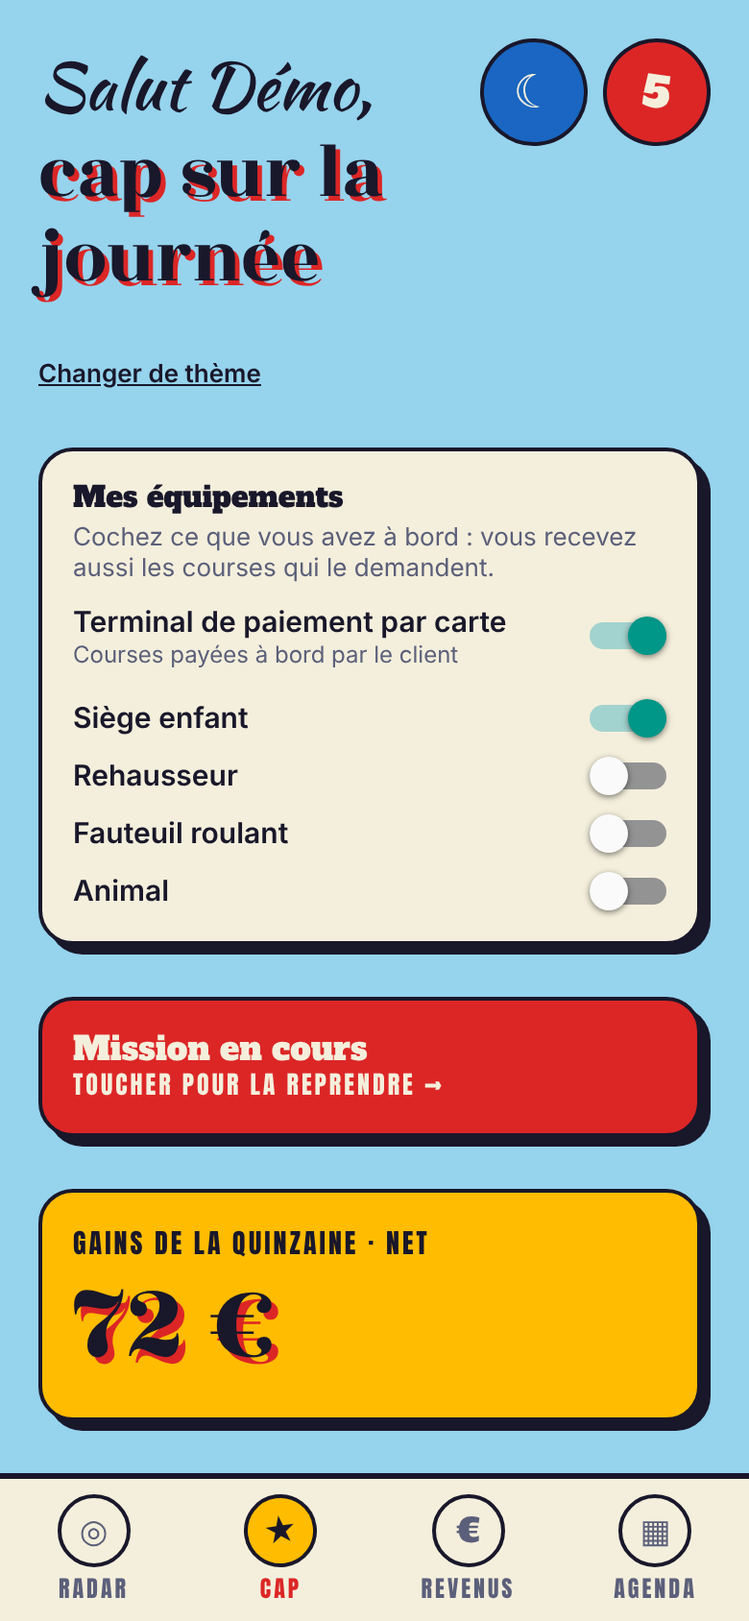
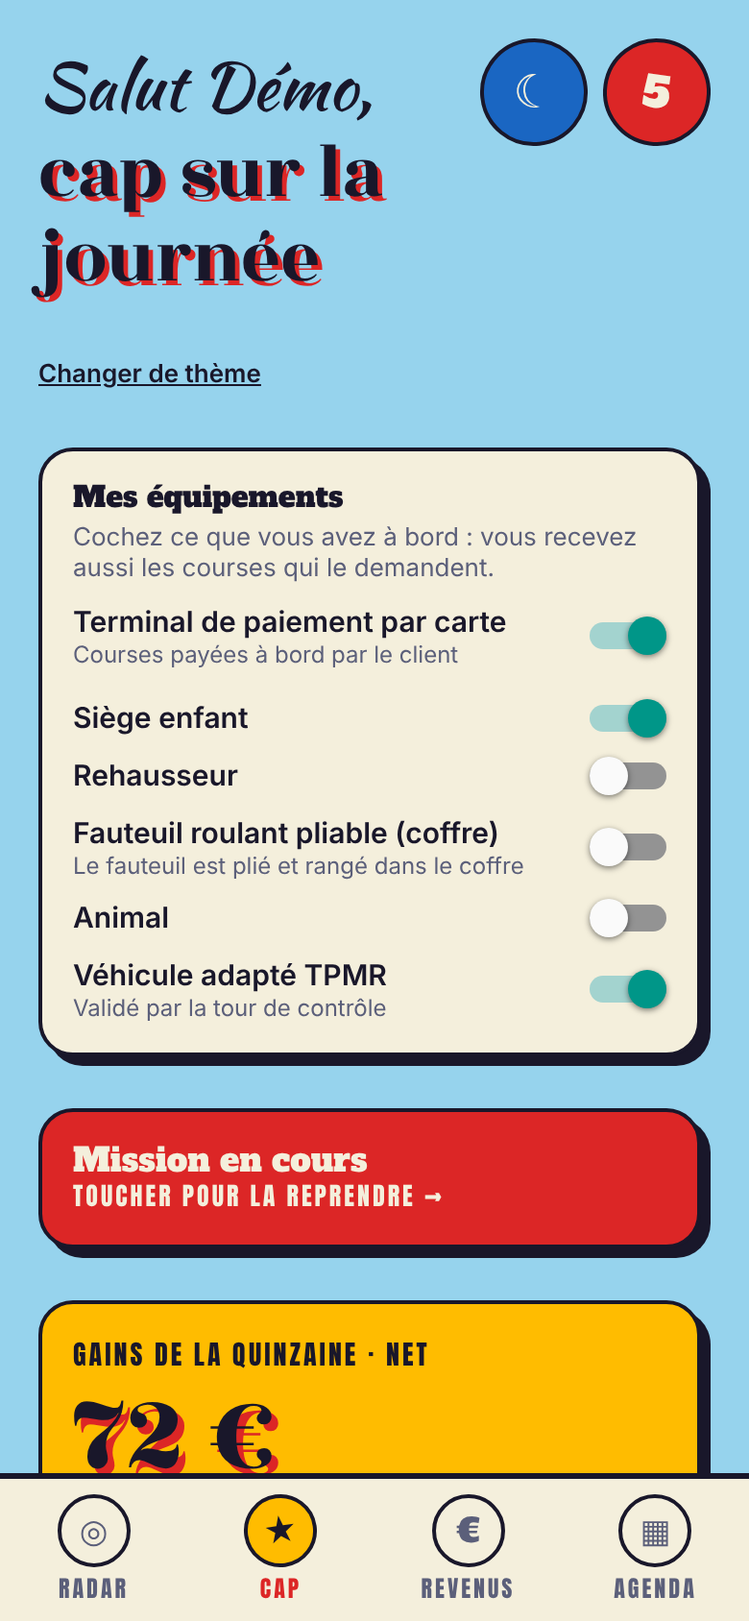
Équipements : véhicule adapté TPMR validé par la tour, distinct du fauteuil pliable
Nouveau besoin TPMR (rampe ou élévateur, le passager reste dans son fauteuil), à côté de
« fauteuil roulant pliable (coffre) ». Le chauffeur le déclare dans « Mes équipements » ;
les courses TPMR ne lui sont proposées qu'après validation par la tour (onglet Chauffeurs,
« Véhicule TPMR vérifié », journal d'audit). S'il retire TPMR, la validation est à refaire.
Libellés mis à jour sur la page de réservation, l'espace hôtel, la tour et l'application.

Claude-Session: https://claude.ai/code/session_01Kibw4NxoHggexyoNZitFjH

Changed region(s): [[0.0308, 0.4929, 0.9538, 0.9242]]

diff --git a/apps/backoffice/app/page.tsx b/apps/backoffice/app/page.tsx
@@ -345,7 +345,7 @@ function Board() {
                       <span className={`chip ${chipTone(r.status)}`}>{STATUS_LABEL[r.status] ?? r.status}</span>
                       <span className="chip">{r.category}</span>
                       {r.payOnBoard && <span className={`chip ${r.onBoardPayment === "PAID" ? "ok" : r.onBoardPayment === "ISSUE" ? "bad" : "yel"}`}>{r.onBoardPayment === "PAID" ? "Payé à bord ✓" : r.onBoardPayment === "ISSUE" ? (r.onBoardPaymentResolvedAt ? "Impayé à bord (traité)" : "Impayé à bord") : "Paiement à bord (carte)"}</span>}
-                      {(r.needs ?? []).map((n: string) => <span className="chip bad" key={n}>{({ CHILD_SEAT: "Siège enfant", BOOSTER: "Rehausseur", WHEELCHAIR: "Fauteuil roulant", PET: "Animal" } as Record<string, string>)[n] ?? n}</span>)}
+                      {(r.needs ?? []).map((n: string) => <span className="chip bad" key={n}>{({ CHILD_SEAT: "Siège enfant", BOOSTER: "Rehausseur", WHEELCHAIR: "Fauteuil pliable (coffre)", PET: "Animal", TPMR: "Véhicule TPMR (passager en fauteuil)" } as Record<string, string>)[n] ?? n}</span>)}
                       <span className="chip">{r.booking.partner?.name ?? "—"}</span>
                       <span className="chip">Client {eur(r.priceCents).replace(",00", "")}</span>
                     </div>
@@ -408,6 +408,19 @@ function AirportBadge({ driver, act }: { driver: any; act: (path: string, body?:
   );
 }
 
+/** Véhicule adapté TPMR (le passager reste dans son fauteuil) : déclaré par le chauffeur, validé ici après contrôle. */
+function TpmrCheck({ vehicle: v, act }: { vehicle: any; act: (path: string, body?: unknown) => Promise<void> }) {
+  return (
+    <div className="row" style={{ gap: 8, flexWrap: "wrap", alignItems: "center", margin: "8px 0" }}>
+      <span className="cond">TPMR · {v.plate}</span>
+      {v.tpmrVerifiedAt ? <span className="chip ok">validé le {new Date(v.tpmrVerifiedAt).toLocaleDateString("fr-FR")}</span> : <span className="chip yel">déclaré par le chauffeur : à vérifier</span>}
+      {v.tpmrVerifiedAt
+        ? <button className="btn" onClick={() => { if (confirm("Retirer la validation TPMR ? Ce véhicule ne recevra plus les courses de passagers en fauteuil.")) act(`/admin/vehicles/${v.id}/tpmr`, { verified: false }); }}>Retirer</button>
+        : <button className="btn primary" onClick={() => { if (confirm("Avez-vous vérifié la carte grise (mention handicap / TPMR) et la rampe ou l'élévateur ?")) act(`/admin/vehicles/${v.id}/tpmr`, { verified: true }); }}>Véhicule TPMR vérifié</button>}
+    </div>
+  );
+}
+
 function Drivers({isAdmin}:{isAdmin:boolean}) {
   const drivers = useLoad<any[]>("/admin/drivers", 8000);
   const [msg, setMsg] = useState("");
@@ -437,6 +450,7 @@ function Drivers({isAdmin}:{isAdmin:boolean}) {
             <div className="chips">{d.vehicles.map((v: any) => <span className={`chip ${v.compliance?.ok === false ? "bad" : "blue"}`} key={v.id} title={v.compliance?.problems?.join(" · ")}>{v.make} {v.model} · {v.plate}{v.compliance?.ok === false ? " · non conforme" : ""}</span>)}</div>
             {d.vehicles.filter((v: any) => v.compliance?.ok === false).map((v: any) => <div className="muted" key={v.id} style={{ fontSize: 13 }}>{v.plate} : {v.compliance.problems.join(" · ")}</div>)}
             {isAdmin && <AirportBadge driver={d} act={act} />}
+            {isAdmin && d.vehicles.filter((v: any) => (v.features ?? []).includes("TPMR") || v.tpmrVerifiedAt).map((v: any) => <TpmrCheck key={v.id} vehicle={v} act={act} />)}
             <div style={{ margin: "12px 0" }}>
               {d.documents.map((x: any) => (
                 <div className="doc" key={x.id}>

diff --git a/apps/api/src/needs.test.ts b/apps/api/src/needs.test.ts
@@ -58,6 +58,13 @@ describe("équipements du véhicule", () => {
     expect(hasNeeds({ features: [] }, [])).toBe(true);
     expect(hasNeeds({}, ["WHEELCHAIR"])).toBe(false);
   });
+  it("TPMR : la déclaration ne suffit pas, il faut la validation de la tour", () => {
+    expect(hasNeeds({ features: ["TPMR"] }, ["TPMR"])).toBe(false);
+    expect(hasNeeds({ features: ["TPMR"], tpmrVerifiedAt: new Date() }, ["TPMR"])).toBe(true);
+    expect(hasNeeds({ features: [], tpmrVerifiedAt: new Date() }, ["TPMR"])).toBe(false);
+    // le fauteuil pliable (coffre) reste une simple déclaration
+    expect(hasNeeds({ features: ["WHEELCHAIR"] }, ["WHEELCHAIR"])).toBe(true);
+  });
 });
 
 describe("besoins particuliers", () => {
@@ -92,6 +99,31 @@ describe("besoins particuliers", () => {
     // un équipement inconnu sur un véhicule est refusé aussi
     const r = await call("/admin/drivers", { admin: true, body: { firstName: "X", lastName: "Y", phone: "+33600039999", email: "xy@test.fr", vehicle: { plate: "ZZ-999-ZZ", make: "A", model: "B", category: "BERLINE", features: ["JACUZZI"] } } });
     expect(r.status).toBe(422);
+  });
+});
+
+describe("véhicule adapté TPMR", () => {
+  it("déclaré par le chauffeur, validé par la tour ; course TPMR proposée seulement après validation", async () => {
+    const p = (await call("/admin/partners", { admin: true, body: { name: "P" } })).json;
+    const d = await mkDriver();
+    const v = (await call("/driver/me", { token: d.token })).json.vehicles[0];
+    // La tour ne peut pas valider un véhicule que le chauffeur n'a pas déclaré.
+    expect((await call(`/admin/vehicles/${v.id}/tpmr`, { admin: true, body: { verified: true } })).status).toBe(409);
+    const decl = await call(`/driver/vehicles/${v.id}/features`, { token: d.token, body: { features: ["TPMR"] } });
+    expect(decl.json).toEqual({ features: ["TPMR"], tpmrVerified: false });
+    const first = await book(p, ["TPMR"]);
+    expect(first.status).toBe(201);
+    expect((await call("/driver/offers", { token: d.token })).json).toHaveLength(0);
+    expect((await call(`/admin/vehicles/${v.id}/tpmr`, { admin: true, body: { verified: true } })).status).toBe(201);
+    expect((await call("/driver/me", { token: d.token })).json.vehicles[0].tpmrVerifiedAt).toBeTruthy();
+    await book(p, ["TPMR"]);
+    expect((await call("/driver/offers", { token: d.token })).json).toHaveLength(1);
+    // Le chauffeur retire TPMR : la validation tombe ; s'il le redéclare, il faut revalider.
+    await call(`/driver/vehicles/${v.id}/features`, { token: d.token, body: { features: [] } });
+    const again = await call(`/driver/vehicles/${v.id}/features`, { token: d.token, body: { features: ["TPMR"] } });
+    expect(again.json.tpmrVerified).toBe(false);
+    expect((await prisma.vehicle.findUniqueOrThrow({ where: { id: v.id } })).tpmrVerifiedAt).toBeNull();
+    expect(await prisma.auditLog.count({ where: { action: "vehicle.tpmr_verified", entityId: v.id } })).toBe(1);
   });
 });
 

diff --git a/apps/driver-app/src/screens.tsx b/apps/driver-app/src/screens.tsx
@@ -9,7 +9,7 @@ import { ReferralCard } from "./referral";
 import { useEffect, useRef, useState } from "react";
 import { ActivityIndicator, Linking, Pressable, RefreshControl, ScrollView, SectionList, Switch, Text, View } from "react-native";
 import { api, ApiError } from "./api";
-import { countdown, eurShort, NEED_LABEL, needLabels, flightLabel, fuseFraction, groupByDay, isCancelled, NEXT_ACTION, STATUS_LABEL, stepIndex, STEPS, timeOf } from "./format";
+import { countdown, equipHint, eurShort, NEED_LABEL, needLabels, flightLabel, fuseFraction, groupByDay, isCancelled, NEXT_ACTION, STATUS_LABEL, stepIndex, STEPS, timeOf } from "./format";
 import { c } from "./theme";
 import { Btn, Card, Chip, Cond, Display, Fuse, HoldButton, Script, Slab, Sticker, ThemePickerButton, ThemeToggle } from "./ui";
 import { useFetch } from "./useFetch";
@@ -95,10 +95,10 @@ export function Cap({ goRadar, onQuit, notify, openMission, openMessages, dark, 
             {(me.data?.vehicles ?? []).length > 1 && <Cond size={12} color={c.muted} style={{ marginTop: 8 }}>{`${v.make} ${v.model} · ${v.plate}`}</Cond>}
             {Object.entries(NEED_LABEL).map(([need, label]) => {
               const has = (v.features ?? []).includes(need);
-              return <EquipRow key={need} label={label} value={has} disabled={!me.data}
+              return <EquipRow key={need} label={label} hint={equipHint(need, v)} value={has} disabled={!me.data}
                 onChange={async (on) => {
                   const features = on ? [...(v.features ?? []), need] : (v.features ?? []).filter((x: string) => x !== need);
-                  try { await api(`/driver/vehicles/${v.id}/features`, { features }); await me.reload(); notify(on ? `${label} : déclaré` : `${label} : retiré`, "ok"); }
+                  try { await api(`/driver/vehicles/${v.id}/features`, { features }); await me.reload(); notify(on ? (need === "TPMR" ? "Véhicule TPMR déclaré : la tour de contrôle va le vérifier" : `${label} : déclaré`) : `${label} : retiré`, "ok"); }
                   catch (e: any) { notify(e.message, "bad"); }
                 }} />;
             })}

diff --git a/apps/driver-app/src/format.test.ts b/apps/driver-app/src/format.test.ts
@@ -1,5 +1,5 @@
 import { describe, expect, it } from "vitest";
-import { normalizeApiUrl, countdown, dayLabel, delayLabel, flightLabel, hoursLabel, isCancelled, STATUS_LABEL, eurShort, fuseFraction, groupByDay, NEXT_ACTION, secondsUntil, stepIndex, timeOf, waitedMin, whenLabel, swapState } from "./format";
+import { equipHint, NEED_LABEL, normalizeApiUrl, countdown, dayLabel, delayLabel, flightLabel, hoursLabel, isCancelled, STATUS_LABEL, eurShort, fuseFraction, groupByDay, NEXT_ACTION, secondsUntil, stepIndex, timeOf, waitedMin, whenLabel, swapState } from "./format";
 
 describe("format", () => {
   it("compte à rebours mm:ss", () => {
@@ -91,5 +91,16 @@ describe("bourse d'échange", () => {
     expect(swapState({ status: "ASSIGNED", swapDeadline: "2026-06-02T10:00:00Z", swapOfferedAt: "2026-06-01T09:00:00Z" }, now)).toBe("offered");
     expect(swapState({ status: "ASSIGNED", swapDeadline: "2026-06-01T09:00:00Z" }, now)).toBe("closed");
     expect(swapState({ status: "EN_ROUTE", swapDeadline: "2026-06-02T10:00:00Z" }, now)).toBe("closed");
+  });
+});
+
+describe("équipements : sous-titres", () => {
+  it("TPMR : à valider tant que la tour n'a pas vérifié", () => {
+    expect(NEED_LABEL.TPMR).toBe("Véhicule adapté TPMR");
+    expect(equipHint("TPMR", { features: [] })).toMatch(/Validation par la tour/);
+    expect(equipHint("TPMR", { features: ["TPMR"] })).toBe("En attente de validation par la tour de contrôle");
+    expect(equipHint("TPMR", { features: ["TPMR"], tpmrVerifiedAt: "2026-11-28T10:00:00Z" })).toBe("Validé par la tour de contrôle");
+    expect(equipHint("WHEELCHAIR", {})).toMatch(/coffre/);
+    expect(equipHint("PET", {})).toBeUndefined();
   });
 });

diff --git a/apps/api/src/admin.controller.ts b/apps/api/src/admin.controller.ts
@@ -155,6 +155,19 @@ export class AdminController {
    * Badge d'accès aéroport vérifié par l'équipe (facture de parking ADP vue par un humain) : le chauffeur ne peut pas encore
    * envoyer sa facture depuis l'application. Retirer le badge le refuse ; les départs d'aéroport se ferment aussitôt.
    */
+  /** Véhicule adapté TPMR : la tour valide après contrôle (carte grise, photos de la rampe ou de l'élévateur) ; ou retire la validation. */
+  @Post("vehicles/:id/tpmr")
+  @AdminOnly()
+  async tpmr(@Req() req: { admin: AdminIdentity }, @Param("id") id: string, @Body() body: unknown) {
+    const { verified } = parse(z.object({ verified: z.boolean() }).strict(), body);
+    const v = await this.prisma.vehicle.findUnique({ where: { id } });
+    if (!v) throw new HttpException("Véhicule introuvable", 404);
+    if (verified && !v.features.includes("TPMR")) throw new HttpException("Le chauffeur n'a pas déclaré ce véhicule comme adapté TPMR", 409);
+    await this.prisma.vehicle.update({ where: { id }, data: verified ? { tpmrVerifiedAt: new Date(), tpmrVerifiedBy: req.admin.actor } : { tpmrVerifiedAt: null, tpmrVerifiedBy: null } });
+    await this.prisma.auditLog.create({ data: { actor: req.admin.actor, action: verified ? "vehicle.tpmr_verified" : "vehicle.tpmr_revoked", entity: "Vehicle", entityId: id } });
+    return { tpmrVerified: verified };
+  }
+
   @Post("drivers/:id/airport-badge")
   @AdminOnly()
   async airportBadge(@Req() req: { admin: AdminIdentity }, @Param("id") id: string, @Body() body: unknown) {

diff --git a/apps/api/src/vehicle-rules.ts b/apps/api/src/vehicle-rules.ts
@@ -52,10 +52,14 @@ export function checkVehicle(v: VehicleFacts, now = new Date()): VehicleCheck {
   return { ok: p.length === 0, problems: p };
 }
 
-/** Le véhicule a-t-il tous les équipements demandés (siège enfant, fauteuil roulant…) ? */
-export const hasNeeds = (v: { features?: string[] | null }, needs: readonly string[] = []) => needs.every((n) => (v.features ?? []).includes(n));
+/**
+ * Le véhicule a-t-il tous les équipements demandés (siège enfant, fauteuil roulant…) ?
+ * TPMR (passager qui reste dans son fauteuil) : la déclaration du chauffeur ne suffit pas, il faut la validation de la tour.
+ */
+export const hasNeeds = (v: { features?: string[] | null; tpmrVerifiedAt?: Date | null }, needs: readonly string[] = []) =>
+  needs.every((n) => (v.features ?? []).includes(n) && (n !== "TPMR" || !!v.tpmrVerifiedAt));
 
 /** Premier véhicule actif de la catégorie qui respecte les critères et porte les équipements demandés. */
-export function firstCompliant<T extends VehicleFacts & { active: boolean; category: string; features?: string[] | null }>(vehicles: T[], category: string, needs: readonly string[] = []): T | undefined {
+export function firstCompliant<T extends VehicleFacts & { active: boolean; category: string; features?: string[] | null; tpmrVerifiedAt?: Date | null }>(vehicles: T[], category: string, needs: readonly string[] = []): T | undefined {
   return vehicles.find((v) => v.active && v.category === category && checkVehicle(v).ok && hasNeeds(v, needs));
 }

diff --git a/apps/driver-app/src/format.ts b/apps/driver-app/src/format.ts
@@ -104,7 +104,15 @@ export function normalizeApiUrl(raw: string): string | null {
 }
 
 /** Besoins particuliers du voyageur, tels qu'affichés au chauffeur. */
-export const NEED_LABEL: Record<string, string> = { CHILD_SEAT: "Siège enfant", BOOSTER: "Rehausseur", WHEELCHAIR: "Fauteuil roulant", PET: "Animal" };
+export const NEED_LABEL: Record<string, string> = { CHILD_SEAT: "Siège enfant", BOOSTER: "Rehausseur", WHEELCHAIR: "Fauteuil roulant pliable (coffre)", PET: "Animal", TPMR: "Véhicule adapté TPMR" };
+
+/** Sous-titre d'un équipement dans « Mes équipements » : TPMR doit être validé par la tour. */
+export function equipHint(need: string, v: { features?: string[] | null; tpmrVerifiedAt?: string | null }): string | undefined {
+  if (need === "WHEELCHAIR") return "Le fauteuil est plié et rangé dans le coffre";
+  if (need !== "TPMR") return undefined;
+  if (!(v.features ?? []).includes("TPMR")) return "Rampe ou élévateur : le passager reste dans son fauteuil. Validation par la tour.";
+  return v.tpmrVerifiedAt ? "Validé par la tour de contrôle" : "En attente de validation par la tour de contrôle";
+}
 export const needLabels = (needs?: string[] | null) => (needs ?? []).map((n) => NEED_LABEL[n] ?? n);
 
 /** Bourse d'échange : la mission est-elle déjà proposée, encore échangeable, ou trop proche ? */

diff --git a/apps/api/src/driver.controller.ts b/apps/api/src/driver.controller.ts
@@ -67,9 +67,13 @@ export class DriverController {
   @UseGuards(DriverGuard)
   async vehicleFeatures(@Req() req: any, @Param("id") id: string, @Body() body: unknown) {
     const { features } = parse(z.object({ features: z.array(z.enum(NEEDS)).max(NEEDS.length) }).strict(), body);
-    const res = await this.prisma.vehicle.updateMany({ where: { id, driverId: req.driverId, active: true }, data: { features: [...new Set(features)] } });
-    if (res.count !== 1) throw new HttpException("Véhicule introuvable", 404);
-    return { features: [...new Set(features)] };
+    const v = await this.prisma.vehicle.findFirst({ where: { id, driverId: req.driverId, active: true } });
+    if (!v) throw new HttpException("Véhicule introuvable", 404);
+    const next = [...new Set(features)];
+    // TPMR retiré par le chauffeur : la validation de la tour tombe (à refaire s'il le redéclare).
+    const dropTpmr = !next.includes("TPMR") && (v.tpmrVerifiedAt || v.features.includes("TPMR"));
+    await this.prisma.vehicle.update({ where: { id }, data: { features: next, ...(dropTpmr ? { tpmrVerifiedAt: null, tpmrVerifiedBy: null } : {}) } });
+    return { features: next, tpmrVerified: next.includes("TPMR") && !dropTpmr && !!v.tpmrVerifiedAt };
   }
 
   @Get("me")

diff --git a/apps/web-booking/lib/hosted.ts b/apps/web-booking/lib/hosted.ts
@@ -25,8 +25,8 @@ export const CATEGORY: Record<Lang, Record<string, string>> = {
   en: { BERLINE: "Sedan (up to 3 passengers)", BUSINESS: "Business", VAN: "Van (up to 7 passengers)", GREEN: "Electric or hybrid" },
 };
 export const NEED: Record<Lang, Record<string, string>> = {
-  fr: { CHILD_SEAT: "Siège enfant", BOOSTER: "Rehausseur", WHEELCHAIR: "Fauteuil roulant", PET: "Animal" },
-  en: { CHILD_SEAT: "Child seat", BOOSTER: "Booster seat", WHEELCHAIR: "Wheelchair", PET: "Pet" },
+  fr: { CHILD_SEAT: "Siège enfant", BOOSTER: "Rehausseur", WHEELCHAIR: "Fauteuil roulant pliable (rangé dans le coffre)", PET: "Animal", TPMR: "Véhicule adapté : le passager reste dans son fauteuil (TPMR)" },
+  en: { CHILD_SEAT: "Child seat", BOOSTER: "Booster seat", WHEELCHAIR: "Folding wheelchair (stowed in the boot)", PET: "Pet", TPMR: "Wheelchair-accessible vehicle (passenger stays in the wheelchair)" },
 };
 
 export const T = {

diff --git a/packages/shared/src/index.ts b/packages/shared/src/index.ts
@@ -50,7 +50,8 @@ export const QuoteRequestSchema = z.object({
 export type QuoteRequest = z.infer<typeof QuoteRequestSchema>;
 
 /** Besoins particuliers du voyageur : la mission n'est proposée qu'aux véhicules équipés en conséquence. */
-export const NEEDS = ["CHILD_SEAT", "BOOSTER", "WHEELCHAIR", "PET"] as const;
+/** WHEELCHAIR : fauteuil pliable rangé dans le coffre. TPMR : véhicule adapté (rampe ou élévateur, le passager reste dans son fauteuil), validé par la tour. */
+export const NEEDS = ["CHILD_SEAT", "BOOSTER", "WHEELCHAIR", "PET", "TPMR"] as const;
 export const NeedSchema = z.enum(NEEDS);
 export type Need = z.infer<typeof NeedSchema>;
 

diff --git a/CLAUDE.md b/CLAUDE.md
@@ -69,7 +69,7 @@ Deux thèmes au choix de chaque utilisateur, partout (app chauffeur, tour de con
 Original = style affiche rétro : ciel `#8fd0f5`, crème `#f5eedd`, bleu nuit `#0b2a4a`, encre `#14172b`, jaune `#f7b30a`, rouge `#ee2a14`. Polices Rozha One, Alfa Slab One, Anton, Kaushan Script. Dans l'app chauffeur, couleurs retouchées validées par l'utilisateur : ciel `#96d3ed`, encre `#19172a`, rouge `#dc2626`, jaune `#ffbc00`, crème `#f4efdc`. Cartes crème, bord encre de 3 px, ombre portée dure, pastilles. Nom de marque : **CliCab** (pas « ClicCab » ni « Étoile »). La disponibilité de la marque n'est pas vérifiée.
 
 ## Valeurs métier choisies par Claude, à faire confirmer
-Van : coefficient 1,7, forfaits 95 € (CDG) et 85 € (Orly), commission réduite de 5 points (15 %). Prime électrique : 3 % du prix client (`ECO_BONUS_PERCENT`), prélevée sur la commission. Recrutement : 8 points de permis, français 60/100, anglais B1, éthique 70/100, codes de parrainage 3 par chauffeur. Planning : 10 h de mission maximum sur 24 h, retour à 3 km et 2 h, point de rendez-vous à 500 m. Garantie : alerte « à risque » 3 h avant la prise en charge sans chauffeur (`GUARANTEE_ALERT_MIN`). Échange de missions sans pénalité jusqu'à 48 h avant (`SWAP_MIN_HOURS`). Objet oublié signalable 7 jours (`LOST_ITEM_DAYS`) ; frais de restitution non définis. Prime de parrainage 1 € sur les 10 premières courses du filleul, **désactivée** (`REFERRAL_REWARD_ENABLED`) jusqu'à validation juridique. Mise en commun entre sociétés : jusqu'à 24 h avant, part reversée 0 % (`POOL_MIN_HOURS`, `POOL_SHARE_PERCENT`). Page de réservation clé en main : trajets entre l'adresse du partenaire et une liste d'aéroports et de gares (`HUBS` dans `apps/api/src/hosted.ts`, coordonnées approximatives **à vérifier**), code d'accès recommandé. Bilan carbone : aucun facteur par défaut (`CARBON_FACTOR_*`, à relever dans la Base Empreinte ADEME). Barème de pénalités provisoire. Revenu minimal 9 € net par course (source Service-Public, à revérifier). Badge d'accès aéroport (`AIRPORT_BADGE`, justifié par la facture de parking ADP, validé par un humain) : sans lui, pas de prise en charge dont l'adresse de départ contient « aéroport » ni dans les zones CDG, Orly, Beauvais (`AIRPORT_BADGE_ZONES`) ; aller vers l'aéroport reste libre et le chauffeur reste en ligne pour le reste (`AIRPORT_BADGE_ENABLED=0` désactive) (demande de l'utilisateur ; base légale non vérifiée ; date de fin non exigée, à confirmer). Paiement à bord par carte (`Ride.payOnBoard`, choisi par le partenaire via l'API ou par le voyageur sur la page de réservation) : course proposée seulement aux chauffeurs ayant déclaré un terminal (`Driver.cardTerminal`, simple déclaration, facultatif) ; carte uniquement ; CliCab retiendra sa commission sur le chiffre d'affaires du chauffeur (retenue automatique à construire avec l'étape 4 « paiement »). Fin de course payée à bord : le chauffeur doit répondre « encaissé » ou « problème de paiement » (motif : carte refusée, refus, terminal en panne, autre) ; un impayé crée une alerte dans l'onglet Alertes jusqu'à ce que la tour le marque traité (motif obligatoire) ; état visible par la tour et le donneur d'ordre (espace hôtel, relevé). Équipements (terminal, siège enfant, rehausseur, fauteuil roulant, animal) : déclarés par le chauffeur dans « Cap », sans vérification humaine (à confirmer). Import CSV de courses (onglet « Import » de la tour, `apps/api/src/ride-import.ts`) : formats des plateformes (Transferz, Mozio, Talixo…) **non documentés publiquement**, correspondance des colonnes devinée puis corrigée par le dispatcheur et mémorisée par donneur d'ordre ; courses en attente hors Radar, publiées une par une par un humain ; prix du fichier s'il existe (commission du partenaire appliquée), sinon grille CliCab (à confirmer) ; adresses : aéroports/gares reconnus, sinon Base Adresse Nationale (`GEOCODER`) ; ligne écartée = données du voyageur effacées. Espace hôtel (`/hotel`, `apps/api/src/hotel-portal.ts`) : la réception commande pour ses clients avec la clé d'API du partenaire (choix de l'utilisateur), trajets hôtel ↔ aéroports et gares (adresse saisie dans « Pages de réservation »), paiement par l'hôtel (relevé mensuel indicatif, pas une facture) ou carte à bord, SMS de suivi au client, annulation au barème provisoire.
+Van : coefficient 1,7, forfaits 95 € (CDG) et 85 € (Orly), commission réduite de 5 points (15 %). Prime électrique : 3 % du prix client (`ECO_BONUS_PERCENT`), prélevée sur la commission. Recrutement : 8 points de permis, français 60/100, anglais B1, éthique 70/100, codes de parrainage 3 par chauffeur. Planning : 10 h de mission maximum sur 24 h, retour à 3 km et 2 h, point de rendez-vous à 500 m. Garantie : alerte « à risque » 3 h avant la prise en charge sans chauffeur (`GUARANTEE_ALERT_MIN`). Échange de missions sans pénalité jusqu'à 48 h avant (`SWAP_MIN_HOURS`). Objet oublié signalable 7 jours (`LOST_ITEM_DAYS`) ; frais de restitution non définis. Prime de parrainage 1 € sur les 10 premières courses du filleul, **désactivée** (`REFERRAL_REWARD_ENABLED`) jusqu'à validation juridique. Mise en commun entre sociétés : jusqu'à 24 h avant, part reversée 0 % (`POOL_MIN_HOURS`, `POOL_SHARE_PERCENT`). Page de réservation clé en main : trajets entre l'adresse du partenaire et une liste d'aéroports et de gares (`HUBS` dans `apps/api/src/hosted.ts`, coordonnées approximatives **à vérifier**), code d'accès recommandé. Bilan carbone : aucun facteur par défaut (`CARBON_FACTOR_*`, à relever dans la Base Empreinte ADEME). Barème de pénalités provisoire. Revenu minimal 9 € net par course (source Service-Public, à revérifier). Badge d'accès aéroport (`AIRPORT_BADGE`, justifié par la facture de parking ADP, validé par un humain) : sans lui, pas de prise en charge dont l'adresse de départ contient « aéroport » ni dans les zones CDG, Orly, Beauvais (`AIRPORT_BADGE_ZONES`) ; aller vers l'aéroport reste libre et le chauffeur reste en ligne pour le reste (`AIRPORT_BADGE_ENABLED=0` désactive) (demande de l'utilisateur ; base légale non vérifiée ; date de fin non exigée, à confirmer). Paiement à bord par carte (`Ride.payOnBoard`, choisi par le partenaire via l'API ou par le voyageur sur la page de réservation) : course proposée seulement aux chauffeurs ayant déclaré un terminal (`Driver.cardTerminal`, simple déclaration, facultatif) ; carte uniquement ; CliCab retiendra sa commission sur le chiffre d'affaires du chauffeur (retenue automatique à construire avec l'étape 4 « paiement »). Fin de course payée à bord : le chauffeur doit répondre « encaissé » ou « problème de paiement » (motif : carte refusée, refus, terminal en panne, autre) ; un impayé crée une alerte dans l'onglet Alertes jusqu'à ce que la tour le marque traité (motif obligatoire) ; état visible par la tour et le donneur d'ordre (espace hôtel, relevé). Équipements (terminal, siège enfant, rehausseur, fauteuil roulant pliable dans le coffre, animal) : déclarés par le chauffeur dans « Cap », sans vérification humaine (à confirmer). Véhicule adapté TPMR (besoin `TPMR`, le passager reste dans son fauteuil) : déclaré par le chauffeur, courses TPMR seulement après validation par la tour (onglet Chauffeurs, `Vehicle.tpmrVerifiedAt`) ; retiré par le chauffeur = validation à refaire. Import CSV de courses (onglet « Import » de la tour, `apps/api/src/ride-import.ts`) : formats des plateformes (Transferz, Mozio, Talixo…) **non documentés publiquement**, correspondance des colonnes devinée puis corrigée par le dispatcheur et mémorisée par donneur d'ordre ; courses en attente hors Radar, publiées une par une par un humain ; prix du fichier s'il existe (commission du partenaire appliquée), sinon grille CliCab (à confirmer) ; adresses : aéroports/gares reconnus, sinon Base Adresse Nationale (`GEOCODER`) ; ligne écartée = données du voyageur effacées. Espace hôtel (`/hotel`, `apps/api/src/hotel-portal.ts`) : la réception commande pour ses clients avec la clé d'API du partenaire (choix de l'utilisateur), trajets hôtel ↔ aéroports et gares (adresse saisie dans « Pages de réservation »), paiement par l'hôtel (relevé mensuel indicatif, pas une facture) ou carte à bord, SMS de suivi au client, annulation au barème provisoire.
 
 ## Jamais essayé en réel
 SMS (Twilio, OVHcloud, Infobip), routage OSRM, suivi de vol, partage de position en arrière-plan (`apps/driver-app/src/liveLocation.ts`, autorisation « Toujours », notification permanente ; Google Play demandera une justification), déploiement complet sur le VPS, photo-preuve sur un vrai téléphone avec GPS, restauration d'une sauvegarde sur le VPS. **Non implémenté** : notifications push, envoi de documents depuis l'application, paiement et versements (Stripe), factures sociétés, comptes multiples par société, pagination des listes.
